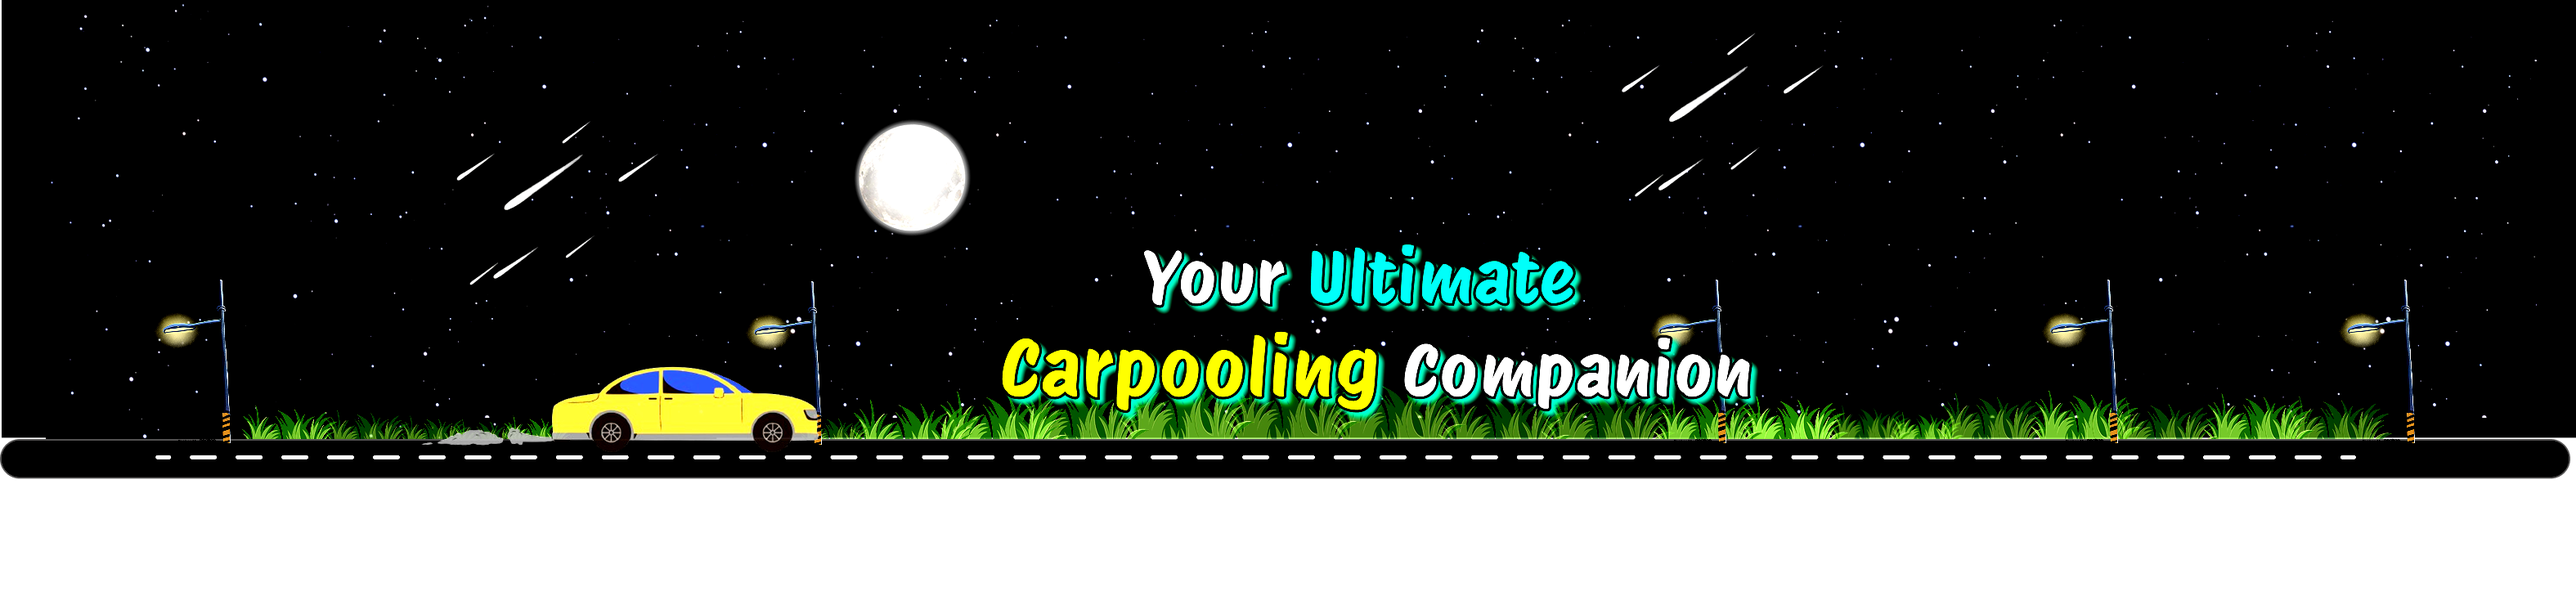
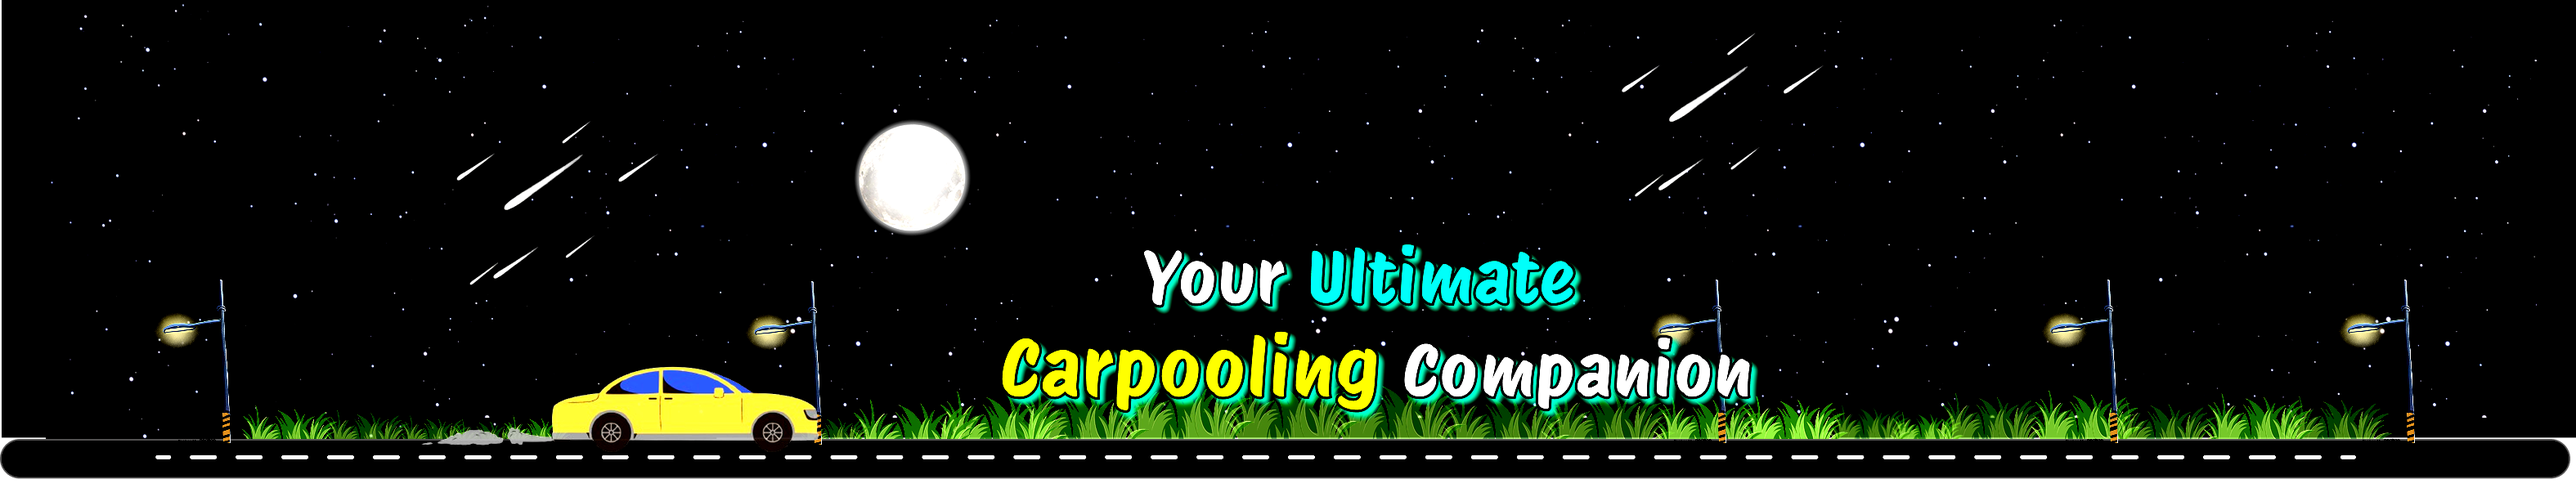
Update images and enhance UI components; added SearchSection, improved Navbar and Header styles, and adjusted hero section responsiveness.

diff --git a/src/app/components/ui/interactive-hover-button.tsx b/src/app/components/ui/interactive-hover-button.tsx
@@ -1,8 +1,8 @@
 "use client"
 
-import React from "react";
 import { ArrowRight } from "lucide-react";
 import { cn } from "@/app/lib/utils";
+import React, { useState, useEffect } from 'react'
 
 interface InteractiveHoverButtonProps
   extends React.ButtonHTMLAttributes<HTMLButtonElement> {}
@@ -11,22 +11,62 @@ export const InteractiveHoverButton = React.forwardRef<
   HTMLButtonElement,
   InteractiveHoverButtonProps
 >(({ children, className, ...props }, ref) => {
+  const [isDarkMode, setIsDarkMode] = useState(false)
+
+  // Check for dark mode on component mount and when theme changes
+  useEffect(() => {
+    // Initial check
+    const checkDarkMode = () => {
+      const isDark = document.documentElement.classList.contains('dark-mode')
+      setIsDarkMode(isDark)
+    }
+
+    checkDarkMode()
+
+    // Set up an observer to detect class changes on the html element
+    const observer = new MutationObserver((mutations) => {
+      mutations.forEach((mutation) => {
+        if (
+          mutation.attributeName === 'class' &&
+          mutation.target === document.documentElement
+        ) {
+          checkDarkMode()
+        }
+      })
+    })
+
+    observer.observe(document.documentElement, { attributes: true })
+
+    // Clean up observer on component unmount
+    return () => observer.disconnect()
+  }, [])
+
+  // Handle theme change from ThemeToggle component
+  const handleThemeChange = (theme: 'light' | 'dark') => {
+    setIsDarkMode(theme === 'dark')
+    if (theme === 'dark') {
+      document.documentElement.classList.add('dark')
+      document.documentElement.classList.remove('light')
+    } else {
+      document.documentElement.classList.add('light')
+      document.documentElement.classList.remove('dark')
+    }
+  }
   return (
     <button
       ref={ref}
-      className={cn(
-        "group relative w-auto cursor-pointer overflow-hidden rounded-full   bg-[#FF7417] p-3 px-6 text-center text-2xl font-mono font-bold text-white shadow-[7px_9px_4px_rgba(0,0,0,0.15)]",
+      className={cn(isDarkMode ? "group relative w-auto cursor-pointer overflow-hidden rounded-full   bg-gradient-to-b from-[#03097c] via-[#024d82] to-[#0281bb] p-3 px-6 text-center text-2xl font-mono font-bold text-white shadow-[7px_9px_4px_rgba(0,0,0,0.15)]" : "group relative w-auto cursor-pointer overflow-hidden rounded-full   bg-gradient-to-b from-[#ff6600] via-[#FF7417] to-[#e70303] p-3 px-6 text-center text-2xl font-mono font-bold text-white shadow-[7px_9px_4px_rgba(0,0,0,0.15)]",
         className,
       )}
       {...props}
-    >
+     >
       <div className="flex items-center gap-2">
         <div className="h-2 w-2 rounded-full bg-white transition-all duration-300 group-hover:scale-[100]"></div>
         <span className="inline-block transition-all duration-300 group-hover:translate-x-12 group-hover:opacity-0">
           {children}
         </span>
       </div>
-      <div className="absolute top-0 z-10 flex h-full w-full translate-x-12 items-center justify-center gap-1 text-[#FF7417] opacity-0 transition-all duration-300 group-hover:-translate-x-5 group-hover:opacity-100">
+      <div className={isDarkMode ? "absolute top-0 z-10 flex h-full w-full translate-x-12 items-center justify-center gap-1 text-[#1820ac] opacity-0 transition-all duration-300 group-hover:-translate-x-5 group-hover:opacity-100" : "absolute top-0 z-10 flex h-full w-full translate-x-12 items-center justify-center gap-1 text-[#FF7417] opacity-0 transition-all duration-300 group-hover:-translate-x-5 group-hover:opacity-100"}>
         <span>{children}</span>
         <ArrowRight />
       </div>

diff --git a/src/app/components/ui/Navbar.tsx b/src/app/components/ui/Navbar.tsx
@@ -4,15 +4,11 @@ import { InteractiveHoverButton } from './interactive-hover-button'
 
 import React, { useState, useEffect } from 'react'
 
-import {Instrument_Serif} from 'next/font/google' 
+import { Instrument_Serif } from 'next/font/google'
 import {
-    ClerkProvider,
-    SignInButton,
-    SignUpButton,
-    SignedIn,
-    SignedOut,
-    UserButton,
-  } from '@clerk/nextjs'
+  SignedIn,
+  UserButton,
+} from '@clerk/nextjs'
 
 const instserif = Instrument_Serif({
   weight: '400',
@@ -31,9 +27,9 @@ const Navbar: React.FC = () => {
       const isDark = document.documentElement.classList.contains('dark-mode')
       setIsDarkMode(isDark)
     }
-    
+
     checkDarkMode()
-    
+
     // Set up an observer to detect class changes on the html element
     const observer = new MutationObserver((mutations) => {
       mutations.forEach((mutation) => {
@@ -45,9 +41,9 @@ const Navbar: React.FC = () => {
         }
       })
     })
-    
+
     observer.observe(document.documentElement, { attributes: true })
-    
+
     // Clean up observer on component unmount
     return () => observer.disconnect()
   }, [])
@@ -64,23 +60,23 @@ const Navbar: React.FC = () => {
     }
   }
   return (
-    <div className='flex space-x-4 p-3 px-auto'>    <button className='rounded-3xl text-xl p-3  shadow-input'><span>{isDarkMode ? '🌙' : '🔴'}</span>{" "}
-    <span className="font-instserif-italic rounded-3xl px-1">How It Works?</span></button>
-       <InteractiveHoverButton>CREATE CABPOOL</InteractiveHoverButton>
-                   <span className='p-4'>
-                       <SignedIn>
-                       <UserButton appearance={{
-elements:{
-  userButtonBox:''
-}
-                       }}
-                       />
-                                        </SignedIn>
-                   </span>
-                 <span className='m-3'>
-                     <ThemeToggle onThemeChange={handleThemeChange} />
-                 </span>
-                 </div>
+    <div className='flex space-x-4 p-2'>    
+    <button className={isDarkMode?'rounded-4xl px-5 bg-gradient-to-b from-[#161616] via-[#252525] to-[#222222] text-white':'rounded-4xl px-5  shadow-input'}>
+    <span className='text-2xl'>{isDarkMode ? '🔵' : '🔴'}</span>{" "}
+      <span className="font-instserif-italic font-medium px-1 text-2xl">How It Works?
+        </span>
+        </button>
+      <InteractiveHoverButton>CREATE CABPOOL</InteractiveHoverButton>
+      <span className='p-2'>
+        <SignedIn>
+          <UserButton
+          />
+        </SignedIn>
+      </span>
+      <span className='flex items-center'>
+        <ThemeToggle onThemeChange={handleThemeChange} />
+      </span>
+    </div>
   )
 }
 

diff --git a/src/app/globals.css b/src/app/globals.css
@@ -120,9 +120,37 @@ a {
   --sidebar-border: oklch(1 0 0 / 10%);
   --sidebar-ring: oklch(0.556 0 0);
 }
-.cl-userButtonBox{
-  padding: 2px;
+
+.cl-userButtonBox {
+  height: 40px;
+  width: 40px;
+  display: flex;
+  align-items: center;
+  justify-content: center;
 }
+
+.cl-userButtonAvatarBox {
+  height: 100%;
+  width: 100%;
+  display: flex;
+  align-items: center;
+  justify-content: center;
+  overflow: hidden;
+}
+
+.cl-userButtonTrigger {
+  padding: 4px;
+}
+
+.cl-rootBox.cl-userButton-root {
+  scale: 1;
+}
+.cl-userPreviewMainIdentifier{
+  font-size: 2rem;
+  font-weight: 600;
+  color: var(--foreground);
+}
+
 /* 
 @theme inline {
 
@@ -133,6 +161,9 @@ a {
   --color-background: var(--background);
   --color-foreground: var(--foreground);
   --color-card: var(--card);
+
+
+
   --color-card-foreground: var(--card-foreground);
   --color-popover: var(--popover);
   --color-popover-foreground: var(--popover-foreground);

diff --git a/src/app/styles/hero.module.css b/src/app/styles/hero.module.css
@@ -1,13 +1,40 @@
 .heroContainer {
     position: relative;
     width: 100%;
-    height: 70vh; /* 45% of viewport height as requested */
+    top: -4rem; /* Move hero section up closer to top */
+    height: 50vh; 
     z-index: 0; /* Lower z-index so header can overlay */
-  }
-  
-  .heroImage {
+    overflow-x: hidden; 
+}
+
+.heroImage {
+    position: relative;
     top: 0;
     left: 0;
     width: 100%;
     height: 100%;
-  }
+}
+
+.heroImage img {
+    object-fit: cover;
+    object-position: center;
+    width: 100%;
+    height: 100%;
+}
+
+/* Scale down hero height as screen gets smaller */
+@media (max-width: 1024px) {
+    .heroContainer {
+        height: 35vh;
+        top: 4rem;
+        min-width: 100%;
+    }
+}
+
+
+/* Hide hero section on medium screens and below */
+@media (max-width: 768px) {
+    .heroContainer {
+        display: none;
+    }
+}

diff --git a/src/app/page.tsx b/src/app/page.tsx
@@ -3,6 +3,7 @@
 import Head from 'next/head';
 import Hero from './components/ui/Hero';
 import Header from "./components/ui/Header"
+import SearchSection from "./components/ui/SearchSection"
 export default function Home() {
   return (
     <div >
@@ -13,11 +14,11 @@ export default function Home() {
       </Head>
 
 
- 
-      <Header/>
 
-      <Hero/>
+      <Header />
 
+      <Hero />
+      <SearchSection />
     </div>
   );
 }

diff --git a/src/app/components/ui/Header.tsx b/src/app/components/ui/Header.tsx
@@ -65,7 +65,8 @@ const Header: React.FC = () => {
           width={250} 
           height={110} 
           priority
-          className="rounded-3xl shadow-[0_20px_10px_rgb(0,0,0,0.12)] object-cover"
+          unoptimized
+          className="rounded-3xl shadow-[0_20px_10px_rgb(0,0,0,0.12)] object-cover "
           style={{
             objectFit: 'cover',
             aspectRatio: '240/100',  // Maintain the aspect ratio

diff --git a/src/app/components/ui/SearchSection.tsx b/src/app/components/ui/SearchSection.tsx
@@ -1,0 +1,11 @@
+import React from 'react'
+
+export default function SearchSection() {
+  return (
+    <div className='z-10 min-w-full -mt-13'>
+        <div className="bg-[#F7F6FF] border-2 border-[rgba(8,24,67,0.9)] shadow-[inset_18px_17px_4px_-6px_rgba(0,0,0,0.25)] rounded-[67px] p-4 mx-12">
+          {/* Add your search input and other components here */}
+        </div>
+      </div>
+  )
+}

diff --git a/src/app/components/ui/GoogleMapSection.tsx b/src/app/components/ui/GoogleMapSection.tsx
@@ -1,0 +1,9 @@
+import React from 'react'
+
+function GoogleMapSection() {
+  return (
+    <div>GoogleMapSection</div>
+  )
+}
+
+export default GoogleMapSection
